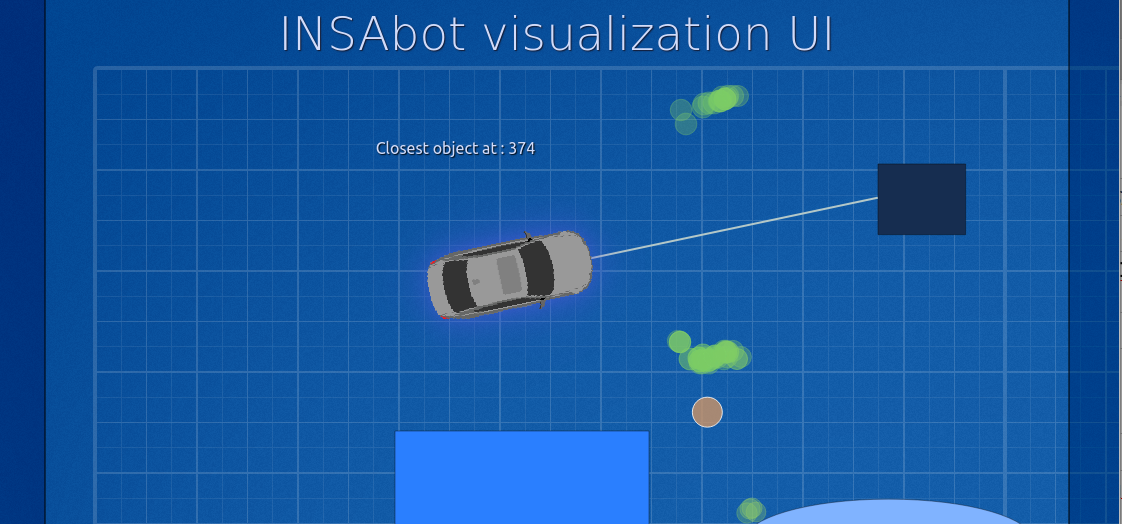
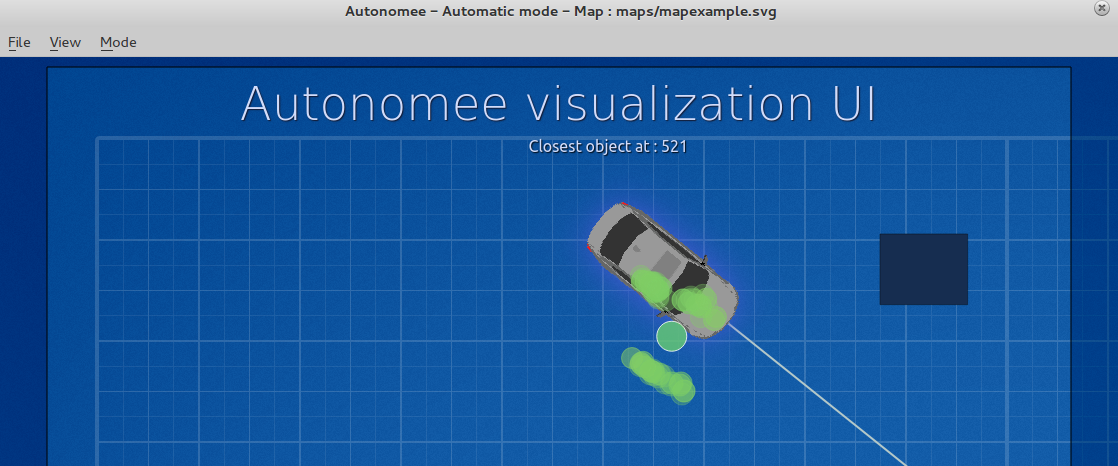
Changed screenshot and old name occurences

diff --git a/main.py b/main.py
@@ -96,11 +96,11 @@ class MainWindow(QMainWindow):
 
     def manualMode(self):
         self.stackedWidget.setCurrentWidget(self.manualView)
-        self.setWindowTitle("Carosif - Manual mode")
+        self.setWindowTitle("Autonomee - Manual mode")
 
     def automaticMode(self):
         self.stackedWidget.setCurrentWidget(self.automaticView)
-        self.setWindowTitle("Carosif - Automatic mode - Map : {}".format(self.currentPath))
+        self.setWindowTitle("Autonomee - Automatic mode - Map : {}".format(self.currentPath))
 
     def openConfigPanel(self):
         self.config.show()
@@ -173,7 +173,7 @@ class MainWindow(QMainWindow):
 
             if not path.startswith(':/'):
                 self.currentPath = path
-                self.setWindowTitle("Carosif - Automatic mode - Map : {}".format(self.currentPath))
+                self.setWindowTitle("Autonomee - Automatic mode - Map : {}".format(self.currentPath))
             self.backgroundAction.setEnabled(True)
 
             self.resize(self.automaticView.sizeHint() + QSize(80, 80 + self.menuBar().height()))

diff --git a/auto.py b/auto.py
@@ -316,7 +316,7 @@ class AutoView(QGraphicsView):
         # self.backgroundItem.setGraphicsEffect( self.shadow )
 
         # Title text
-        self.titleItem = QGraphicsTextItem("INSAbot visualization UI")
+        self.titleItem = QGraphicsTextItem("Autonomee visualization UI")
         self.titleItem.setFont(QFont("Ubuntu-L.ttf", 35, QFont.Light))
         # 'Dirty' centering of the text
         self.titleItem.setPos(width/2 - self.titleItem.boundingRect().width()/2, 5)
